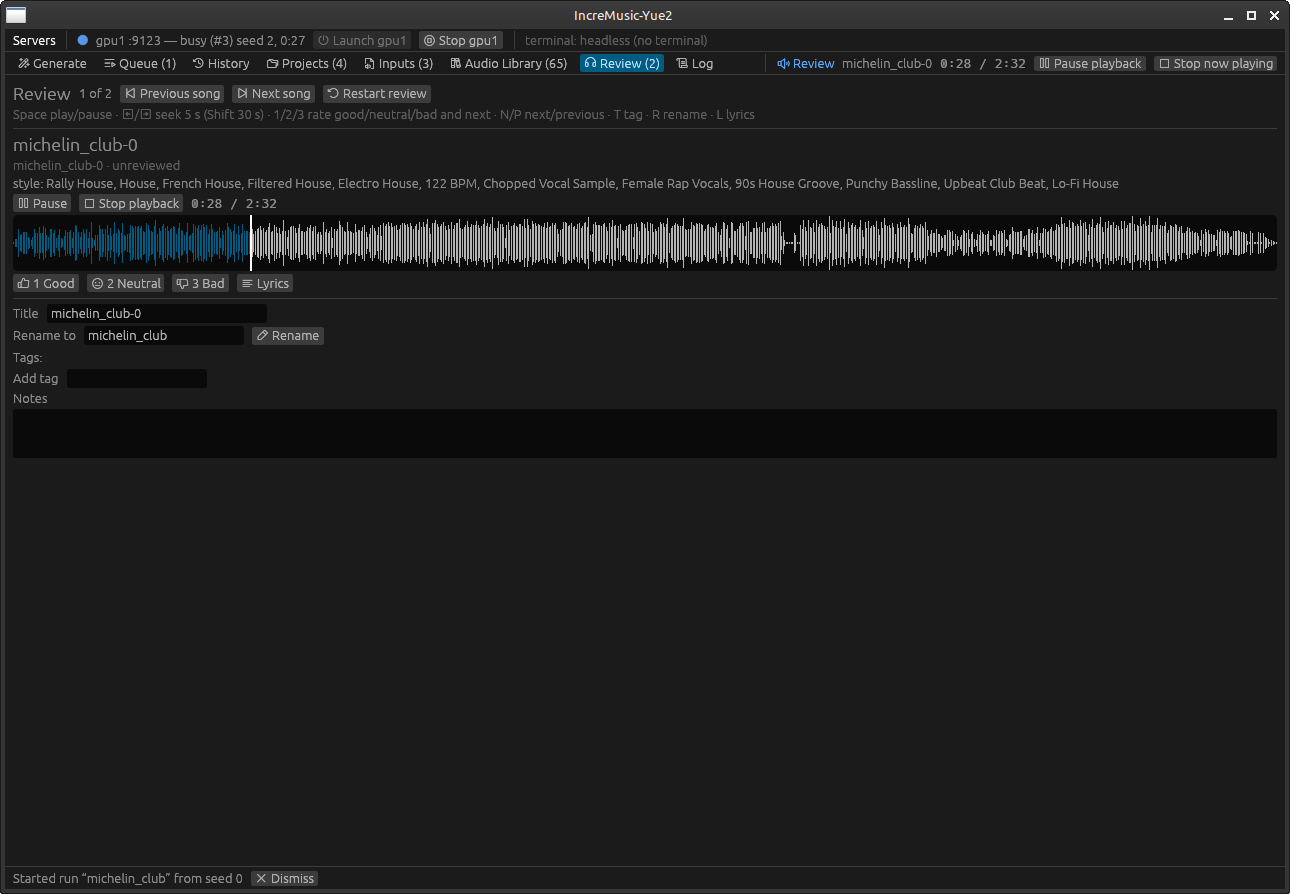
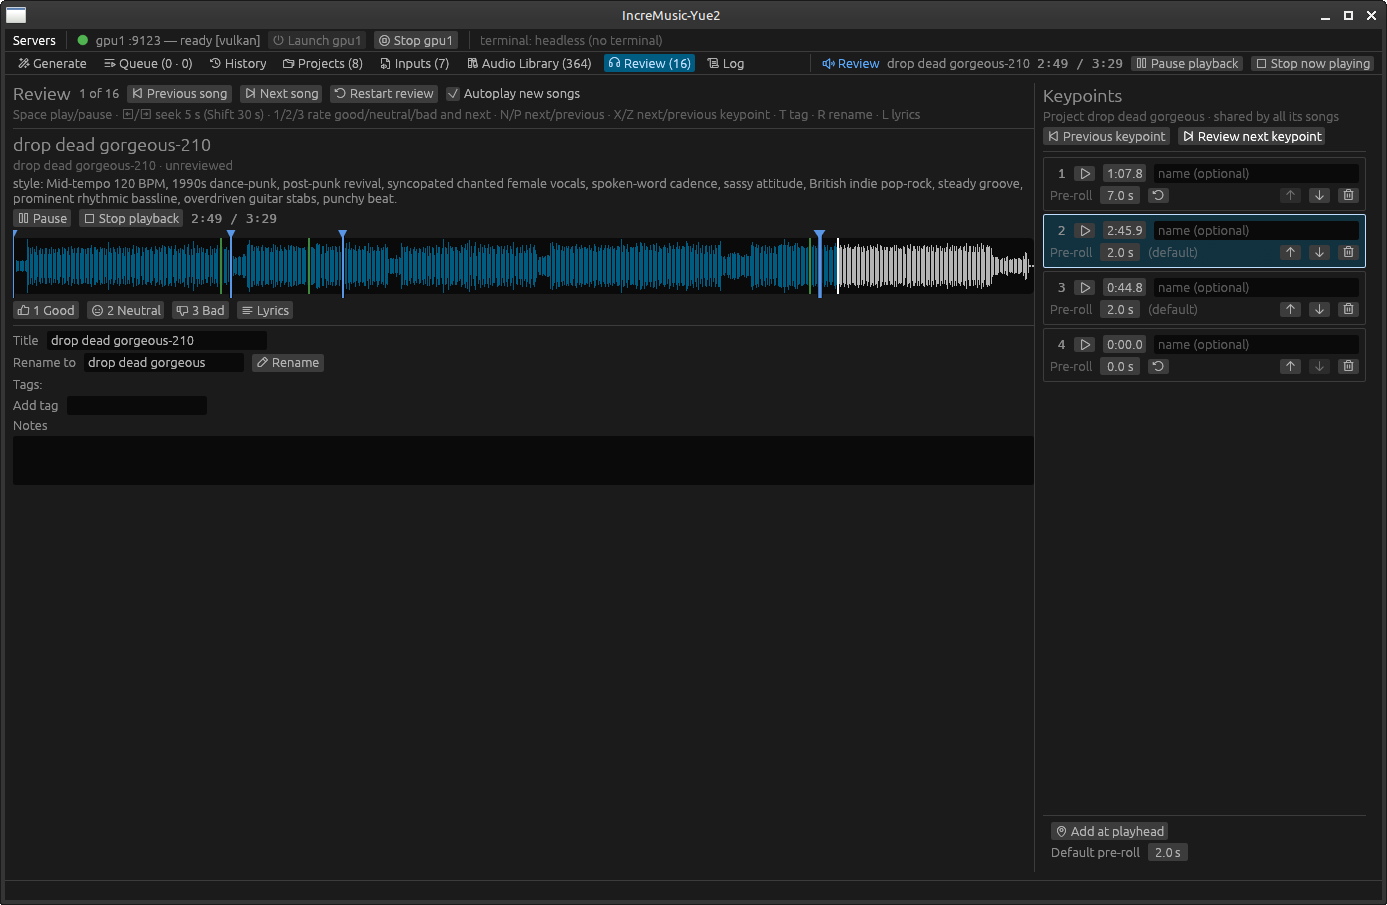
fix the review screenshot

diff --git a/README.md b/README.md
@@ -87,7 +87,7 @@ through them in the order you set.
 | T / R / L | Tag, rename, show lyrics |
 | Ctrl+Z | Undo the last rating or rename (also in other tabs) |
 
-![Review tab](pub_docs/review.png)
+![Review tab: a song's waveform with keypoint markers, and the project's keypoints pane](pub_docs/review.png)
 
 ### Log
 
